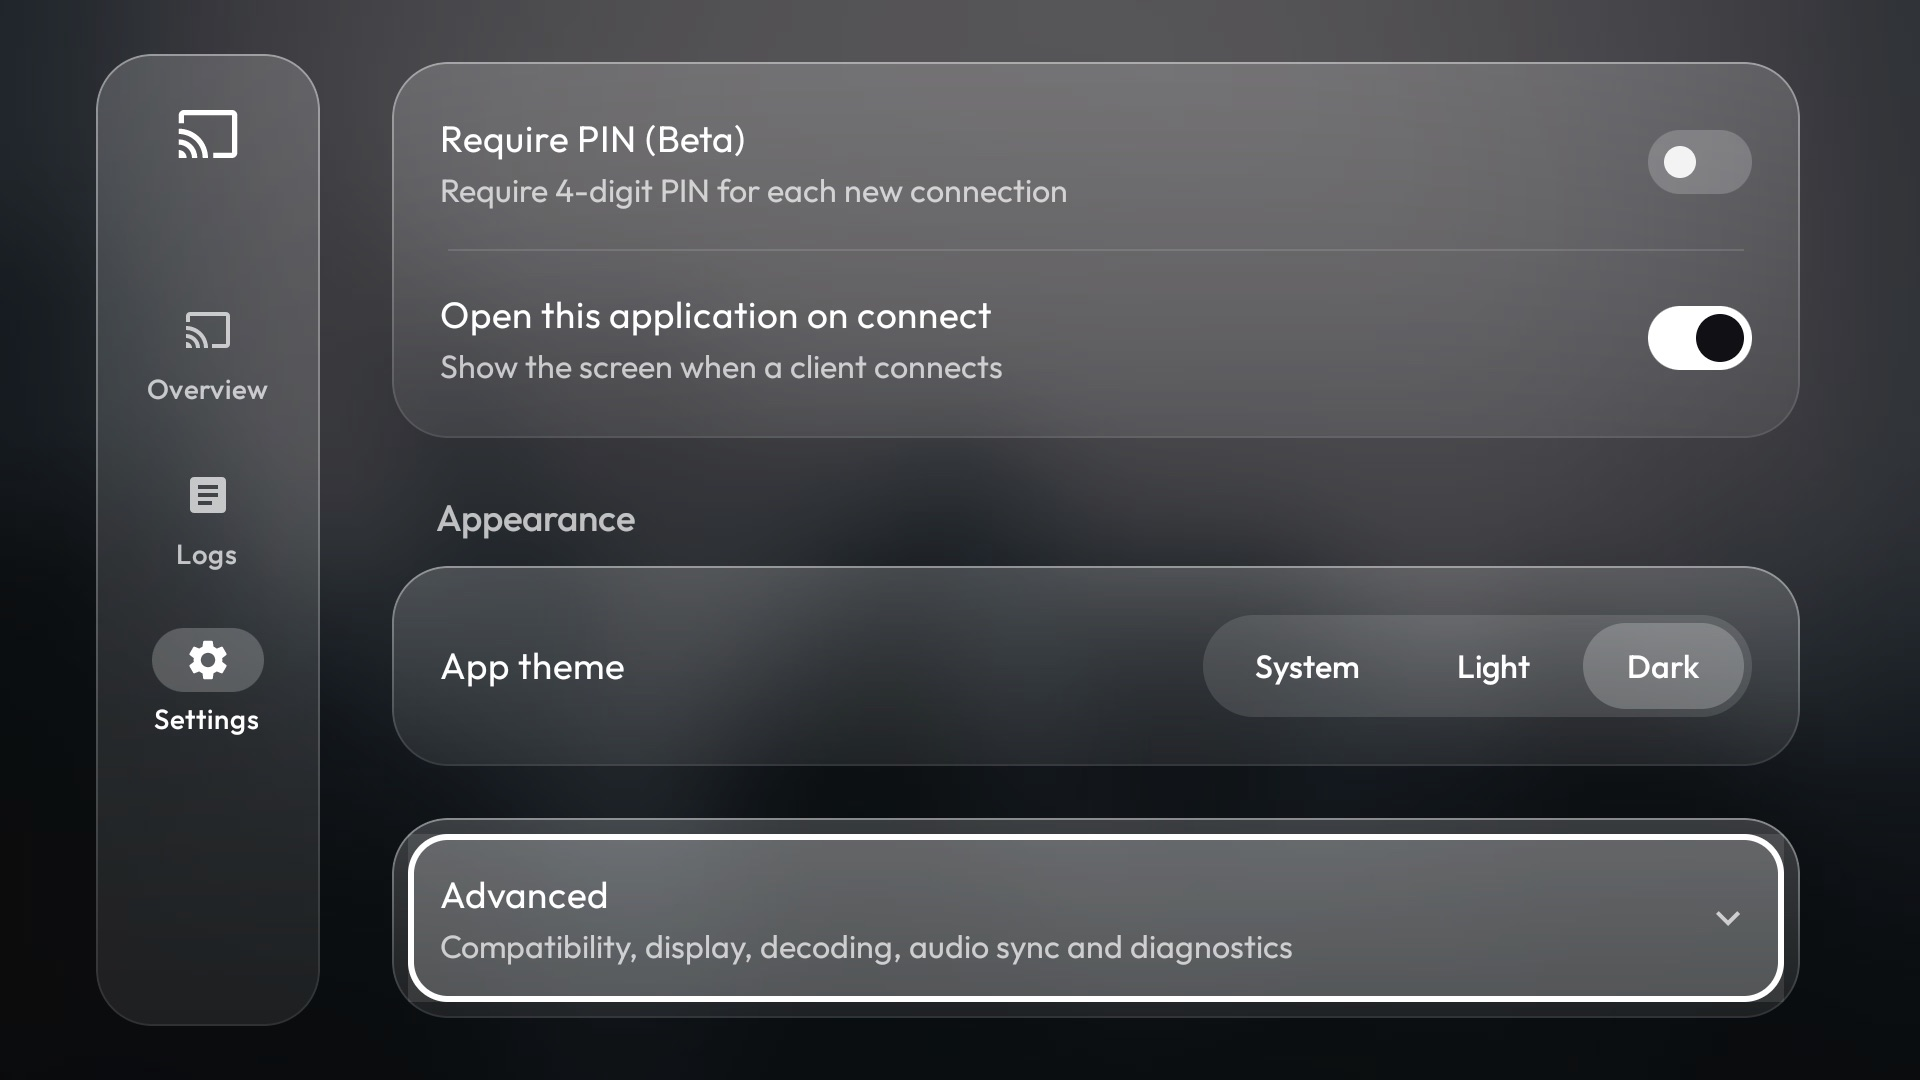
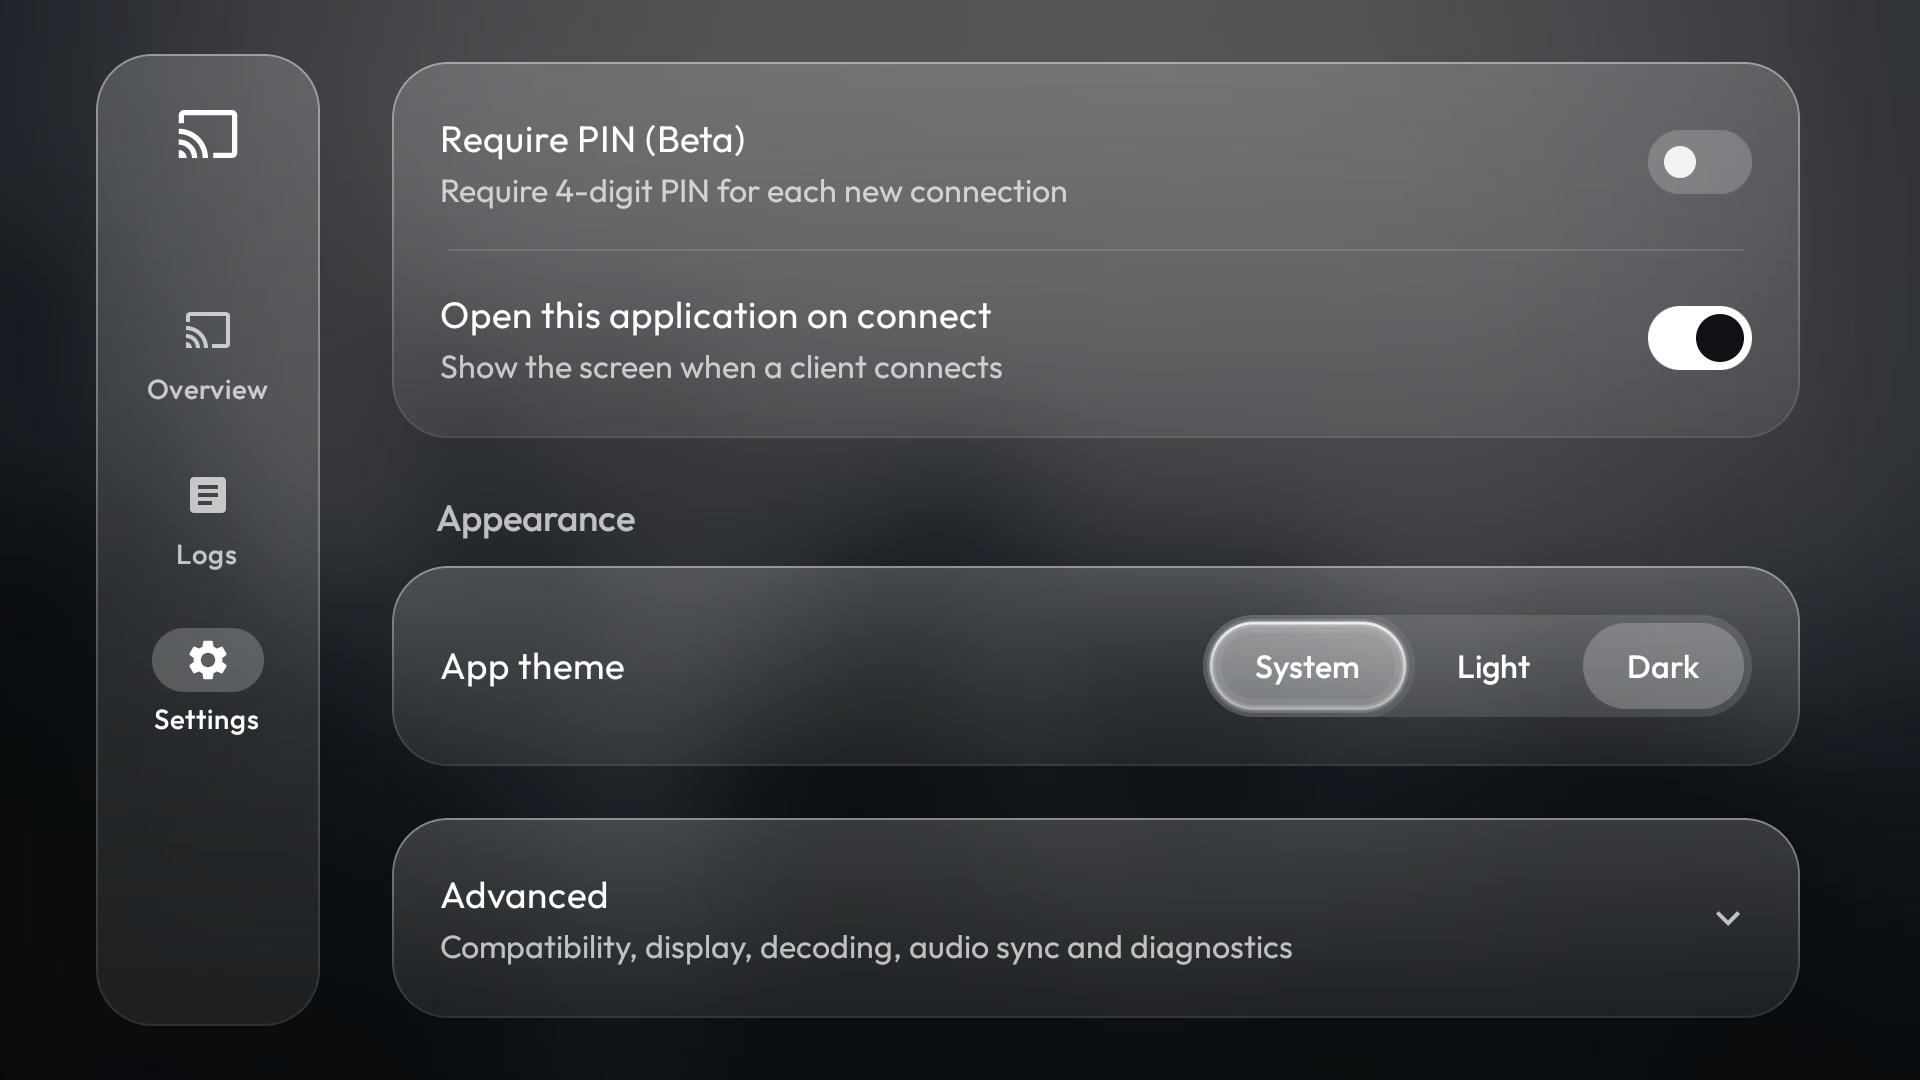
Install glass receiver 2.0.1-glass.2 and refresh screenshots

Changed region(s): [[0.1875, 0.7639, 0.9375, 0.9472], [0.625, 0.55, 0.75, 0.6722]]

diff --git a/docs/TROUBLESHOOTING.md b/docs/TROUBLESHOOTING.md
@@ -20,7 +20,7 @@ Connection problems between the computer and the TV (`unauthorized`, `offline`, 
 | The TV is not listed after it has been off or asleep | Check **Start server at boot** and **Run in background** are ON in the app, and run `./scripts/install.sh` again (it re-applies the battery and background permissions). Then restart the TV once |
 | The receiver does not open on the TV when a phone connects | The app needs **Display over other apps**. `./scripts/check.sh` shows whether it is allowed. If not, run `./scripts/install.sh` again, or allow it in the TV's own Settings, Apps, the receiver, Permissions |
 | `check.sh` says "listening on port 7000: no" but the app is running | The port can be changed in the app. If you changed **Server port**, that is expected |
-| Checksum mismatch on install | The download was damaged and was deleted. Run `./scripts/install.sh` again. If it keeps failing, download the file from the [release page](https://github.com/AmalDamodar/airplay-glass/releases/tag/v2.0.1-glass.1) yourself and run `./scripts/install.sh --apk /path/to/file.apk` |
+| Checksum mismatch on install | The download was damaged and was deleted. Run `./scripts/install.sh` again. If it keeps failing, download the file from the [release page](https://github.com/AmalDamodar/airplay-glass/releases/tag/v2.0.1-glass.2) yourself and run `./scripts/install.sh --apk /path/to/file.apk` |
 | `INSTALL_FAILED_...` from adb | `INSTALL_FAILED_UPDATE_INCOMPATIBLE` means a copy signed by someone else is installed: run `./scripts/uninstall.sh`, then install again. `INSTALL_FAILED_INSUFFICIENT_STORAGE`: free space on the TV (uninstall unused apps) |
 | The picture is jerky | Move the TV and iPhone closer to the router, or put the TV on Ethernet. Mirroring sends the whole screen over the network |
 

diff --git a/README.md b/README.md
@@ -9,7 +9,7 @@ The installer gets the app onto your TV, gives it the permissions it needs and c
 
 <p>
 <img src="screenshots/overview.jpg" width="49%" alt="The receiver ready and waiting on the TV">
-<img src="screenshots/settings.jpg" width="49%" alt="Settings, with the Advanced section open">
+<img src="screenshots/settings.jpg" width="49%" alt="Settings: the focused option is lit like a pane of glass">
 </p>
 
 > Not affiliated with Apple. "AirPlay" is a trademark of Apple Inc.
